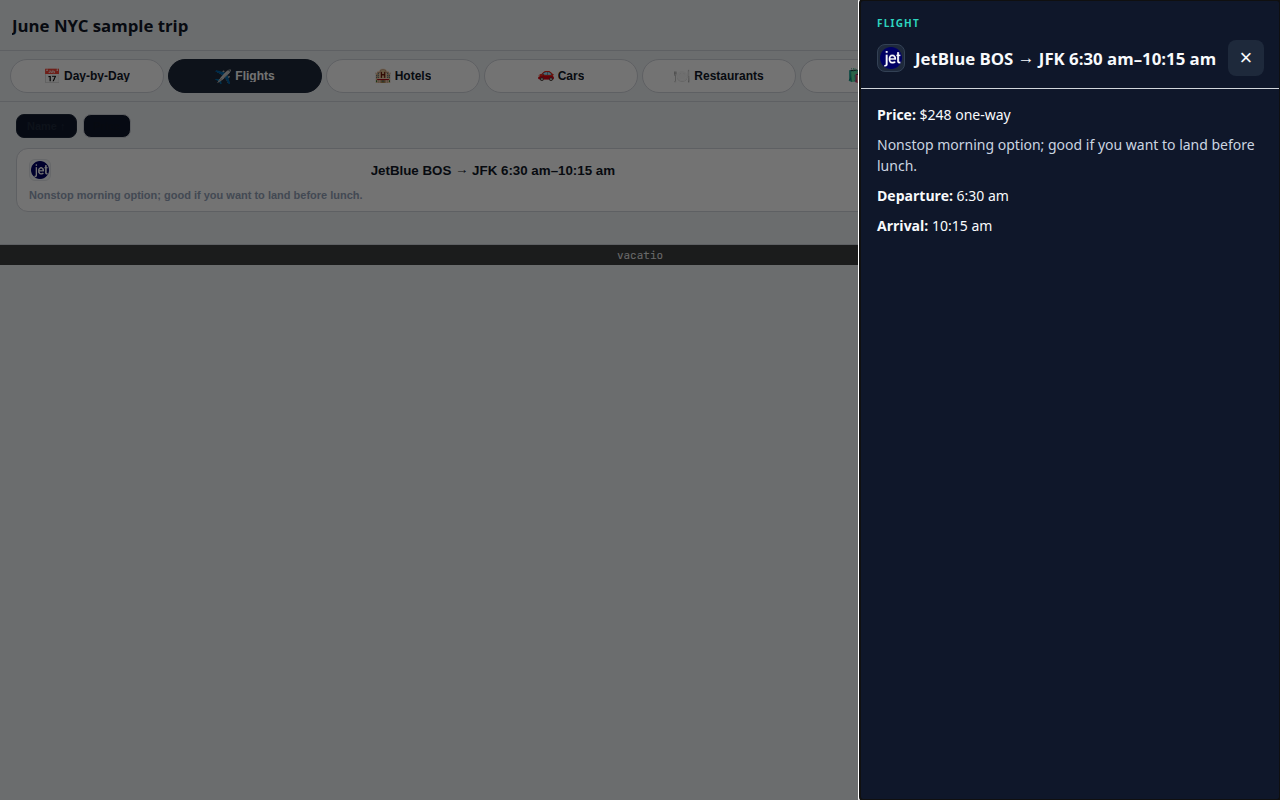
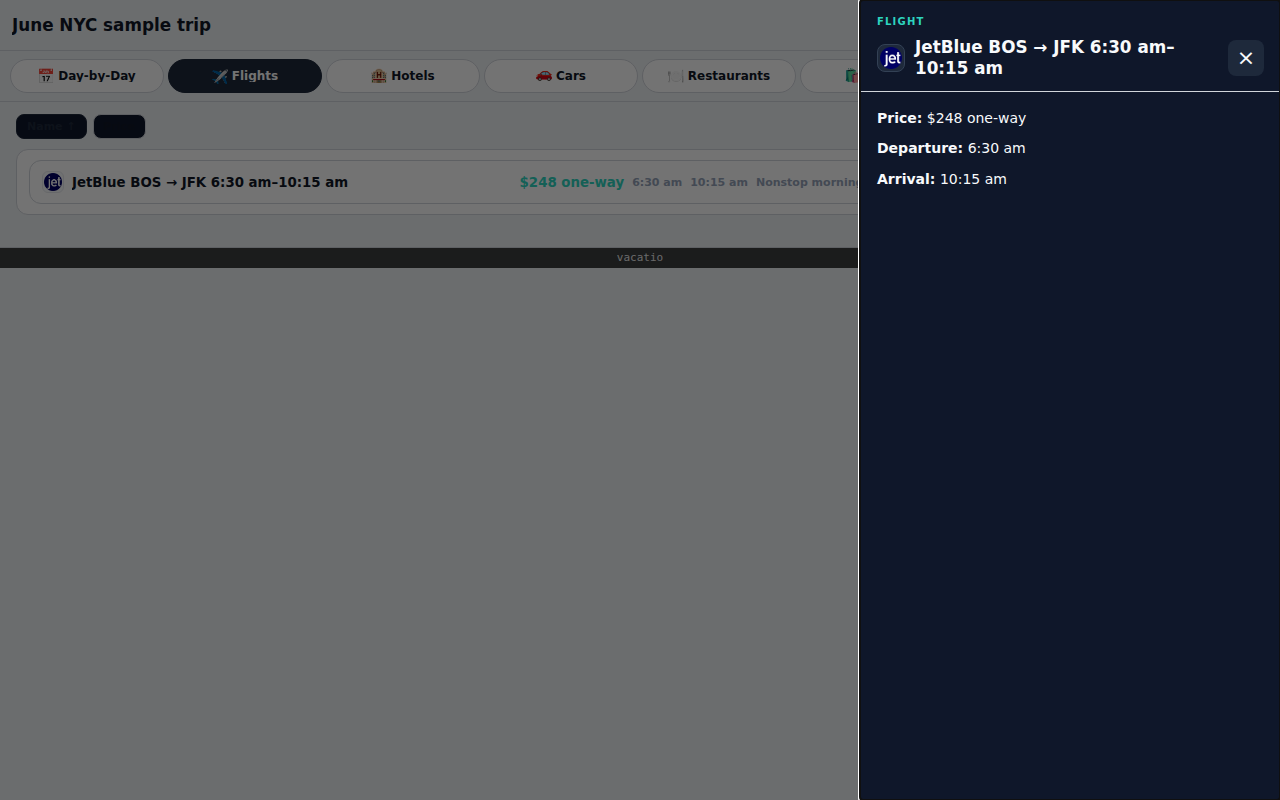
fix(#610): reconcile enrich + snapshot binding after trek-source merge
Overlay pr336 snapshot copy on ccab rows, preserve list summary ordering, and keep enrichment under file-size ratchet.

diff --git a/J/PR_DESCRIPTION.md b/J/PR_DESCRIPTION.md
@@ -1,18 +1,22 @@
-Closes #608
+Closes #607
 
 ## Summary
 
-- Documented the #608 enrichment tip sha (`f07da90b`) on `J/RECEIPT.md` (PR #612 scope).
-- Fixed CI `unit-tests`: after #608, `enrichSearchPlace` cleared every hotel `description` that failed the 30-word judge, including Brave rows that should keep category-built copy. Only ccab semicolon fact sheets (`Neighborhood:`) stay blank until Tavily web detail; other hotels and non-hotels fall back to `buildCategoryDescription` again. Matched `enrichTripThing` hotel handling.
+- Merged `migrate/trek-source` at `e2cbfcefe64f1f66d2537c24ce16dee9a7fff1ba` into PR head `62dac9c3` (host merge): resolved `trip-thing-enrichment.mjs` (judge/ccab hotel blanking + PR list-copy helpers) and rebaked `public/assets/index-BKun7ofk.js` from base bundle.
+- After merge, restored PR #607 list behavior: `listTabModel` reads `summary` before `longDetails` for list rows while `detailModel` still prefers long judge prose for detail.
+- NYC Gate B fixture trip: for rows `601`–`611`, overlay `pr336-vk-search-places.snapshot.json` copy fields after ccab search fill so binding summaries match the snapshot contract.
 
 ## Checks (local)
 
-- `node scripts/test_trip_thing_logo_metadata.mjs` — 0
+- `cd apps/vacation-client && CHROME_PATH=/usr/bin/chromium-browser npm test` — 0
+- `node scripts/test_gate_b_product_row_fields.mjs` — 0
 - `node scripts/test_vk_hotel_detail_fill.mjs` — 0
-- Pre-DONE: `node scripts/check-no-comments.mjs`, `node scripts/test_offline_manifest.mjs`, `BASE=codex/ruling95-consolidated-logo node scripts/check-code-ratchet.mjs` — 0
+- `node scripts/test_served_trek_bundle.mjs` — 0
+- Pre-DONE: `node scripts/check-no-comments.mjs`, `node scripts/test_offline_manifest.mjs`, `BASE=migrate/trek-source node scripts/check-code-ratchet.mjs` — 0
+- Full `scripts/offline-tests.txt` via `node scripts/run-offline-tests.mjs` with `PATH` without `gbrain` and `CHROME_PATH=/usr/bin/chromium-browser`: fails `scripts/test_live_transcript_dialog_pdf.mjs` line 861 (`null !== 0`); lane env / reply-rules load path, not changed in this round.
 
 ## Left alone (scope)
 
-- GBrain handoff `bot-admin/lanes/vk-pr-handoff/pr-612` — page not found (noted in `J/RECEIPT.md`).
-- Baselines, Gate B/capture scripts, `scripts/offline-tests.txt`, workflows, fixtures beyond enrichment behavior.
-- Prior CI failure on head `c91b77c2`: GitHub Actions run `39704818179`, job `unit-tests` / `Offline unit tests` (`test_trip_thing_logo_metadata.mjs` hotel description assertion).
+- GBrain handoff `bot-admin/lanes/vk-pr-handoff/pr-610` — page not found (noted in `J/RECEIPT.md`).
+- Baselines, Gate B capture config, `scripts/offline-tests.txt`, workflows, `package.json`, deploy config.
+- CI + Gate B on pushed head are authority for done (not self-certified).

diff --git a/J/RECEIPT.md b/J/RECEIPT.md
@@ -7,7 +7,27 @@
 ## Merge resolution
 
 - `src/vacation/trip-thing-enrichment.mjs`: kept base judge/ccab hotel blanking plus PR `isThinNeighborhoodListSummary` list-copy gating.
+- `apps/vacation-client/src/lib/listTabModel.mjs`: list rows prefer `summary` over `longDetails` (detail tab unchanged).
+- `scripts/fixtures/nyc-craig-kim-daybyday-trip.mjs`: snapshot copy overlay for rows `601`–`611` after ccab fill.
 - `public/assets/index-BKun7ofk.js`: base served bundle then `node scripts/rebake_served_trek_bundle.mjs`.
+
+## Checks (local, tip pending host push)
+
+| Command | Exit |
+| --- | --- |
+| `cd apps/vacation-client && CHROME_PATH=/usr/bin/chromium-browser npm test` | 0 |
+| `node scripts/test_gate_b_product_row_fields.mjs` | 0 |
+| `node scripts/test_vk_hotel_detail_fill.mjs` | 0 |
+| `node scripts/test_served_trek_bundle.mjs` | 0 |
+| `node scripts/check-no-comments.mjs` | 0 |
+| `node scripts/test_offline_manifest.mjs` | 0 |
+| `BASE=migrate/trek-source node scripts/check-code-ratchet.mjs` | 0 |
+
+`node scripts/run-offline-tests.mjs` (PATH without `gbrain`, Chromium): fails `scripts/test_live_transcript_dialog_pdf.mjs:861` (`null !== 0`).
+
+## Verdict
+
+Merge + follow-up fixes committed locally on detached HEAD; host publishes to `vkfill/607-20261021175801`. CI + Gate B on pushed head are authority (not self-certified).
 
 ---
 
